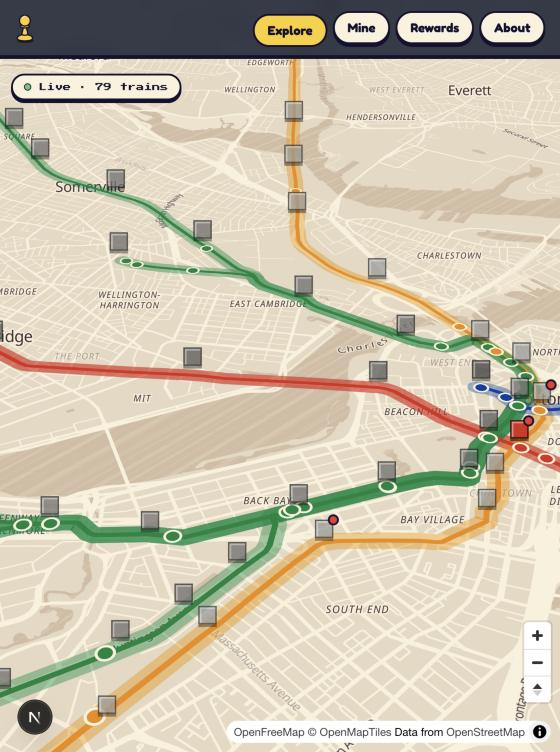
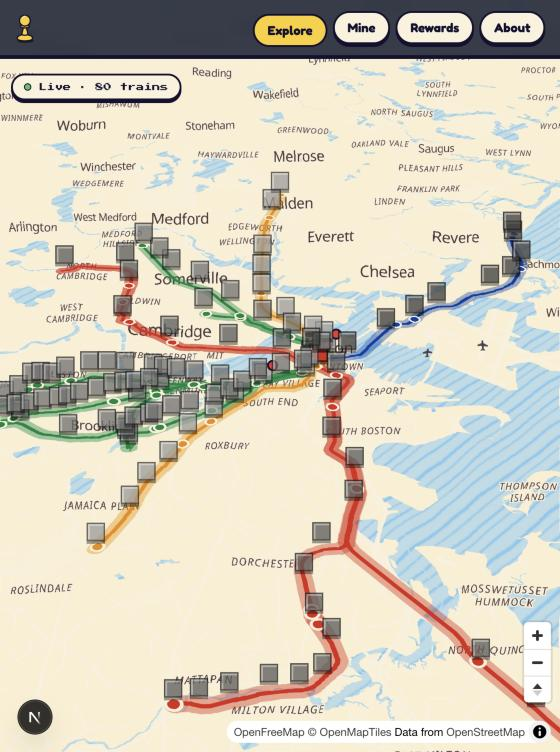
Explore: lighter, fresher cream base with soft blue water

diff --git a/src/lib/map.ts b/src/lib/map.ts
@@ -57,11 +57,15 @@ function blend(from: string, to: string, amount: number): string {
 
 /**
  * The one colour the whole base map is drawn in, on cream paper, and how strongly it is mixed in.
- * "--wood" at 0.4 gives warm cream (current); "--sky" at 1 gives light blue; "--cherry" at 0.6 pink; "--steel" at 0.8 grey.
+ * "--sun" at 0.17 gives a light, fresh cream (current); "--wood" at 0.4 a browner cream;
+ * "--sky" at 1 light blue; "--cherry" at 0.6 pink; "--steel" at 0.8 grey.
  * Everything colourful (T lines, trains, markers, whatever we add next) goes on top.
  */
-const BASE_TONE = "--wood";
-const BASE_STRENGTH = 0.4;
+const BASE_TONE = "--sun";
+const BASE_STRENGTH = 0.17;
+
+/** Water gets its own soft blue, so a warm base does not turn rivers yellow or brown. */
+const WATER_TONE = "--sky";
 
 /** A shade of the base colour: 0 is plain paper, 1 is the base colour at full strength. */
 const shade = (amount: number) => blend("--paper", BASE_TONE, amount * BASE_STRENGTH);
@@ -83,8 +87,8 @@ export async function loadMapStyle(): Promise<StyleSpecification> {
   const land = shade(0.4);
   const park = shade(0.22);
   const block = shade(0.58); // building footprints
-  const water = shade(0.85);
-  const text = blend(BASE_TONE, "--ink", 0.6); // labels: the same colour, darkened so they stay readable
+  const water = blend("--paper", WATER_TONE, 0.4);
+  const text = blend("--wood", "--ink", 0.5); // labels: the same colour, darkened so they stay readable
 
   style.layers = style.layers.flatMap((layer): LayerSpecification[] => {
     const sourceLayer = "source-layer" in layer ? layer["source-layer"] : undefined;
@@ -152,9 +156,9 @@ export function addDoodleTextures(map: MapLibreMap) {
   canvas.width = canvas.height = size;
   const ctx = canvas.getContext("2d", { willReadFrequently: true });
   if (!ctx || map.hasImage("scribble")) return;
-  ctx.fillStyle = shade(0.85);
+  ctx.fillStyle = blend("--paper", WATER_TONE, 0.4);
   ctx.fillRect(0, 0, size, size);
-  ctx.strokeStyle = shade(0.55);
+  ctx.strokeStyle = blend("--paper", WATER_TONE, 0.75);
   ctx.lineCap = "round";
   // Slanted strokes of uneven weight, repeated past the edges so the tile joins up with itself.
   [0, 13, 29, 41, 54].forEach((offset, i) => {

diff --git a/src/features/explore/README.md b/src/features/explore/README.md
@@ -8,7 +8,7 @@ Issue: #2. Owner: Rachel. Only the owner edits this folder.
 - `ExploreMap.tsx`: the map, the T lines, the markers. All map settings come from `src/lib/map.ts`.
 - The look, in the manner of an illustrated city map (`loadMapStyle` in `src/lib/map.ts`): the real streets and buildings underneath,
   in one colour. Land is a soft block of that colour, streets are the paper showing through, water is a deeper shade.
-  The one colour is `BASE_TONE` with `BASE_STRENGTH`: `--wood` gives warm cream (current), `--sky` light blue, `--cherry` pink, `--steel` grey.
+  The one colour is `BASE_TONE` with `BASE_STRENGTH`: `--sun` gives light cream (current), `--wood` a browner cream, `--sky` light blue, `--cherry` pink, `--steel` grey.
   `BUILDINGS_3D` switches buildings between flat footprints (current) and raised blocks.
 - T lines are drawn like a highlighter pen: a wide see-through stroke with a solid line down the middle.
 - Stickers on top (`addStickerLayers`): hospitals from the map's own place data, each with a hand-drawn cross badge.
